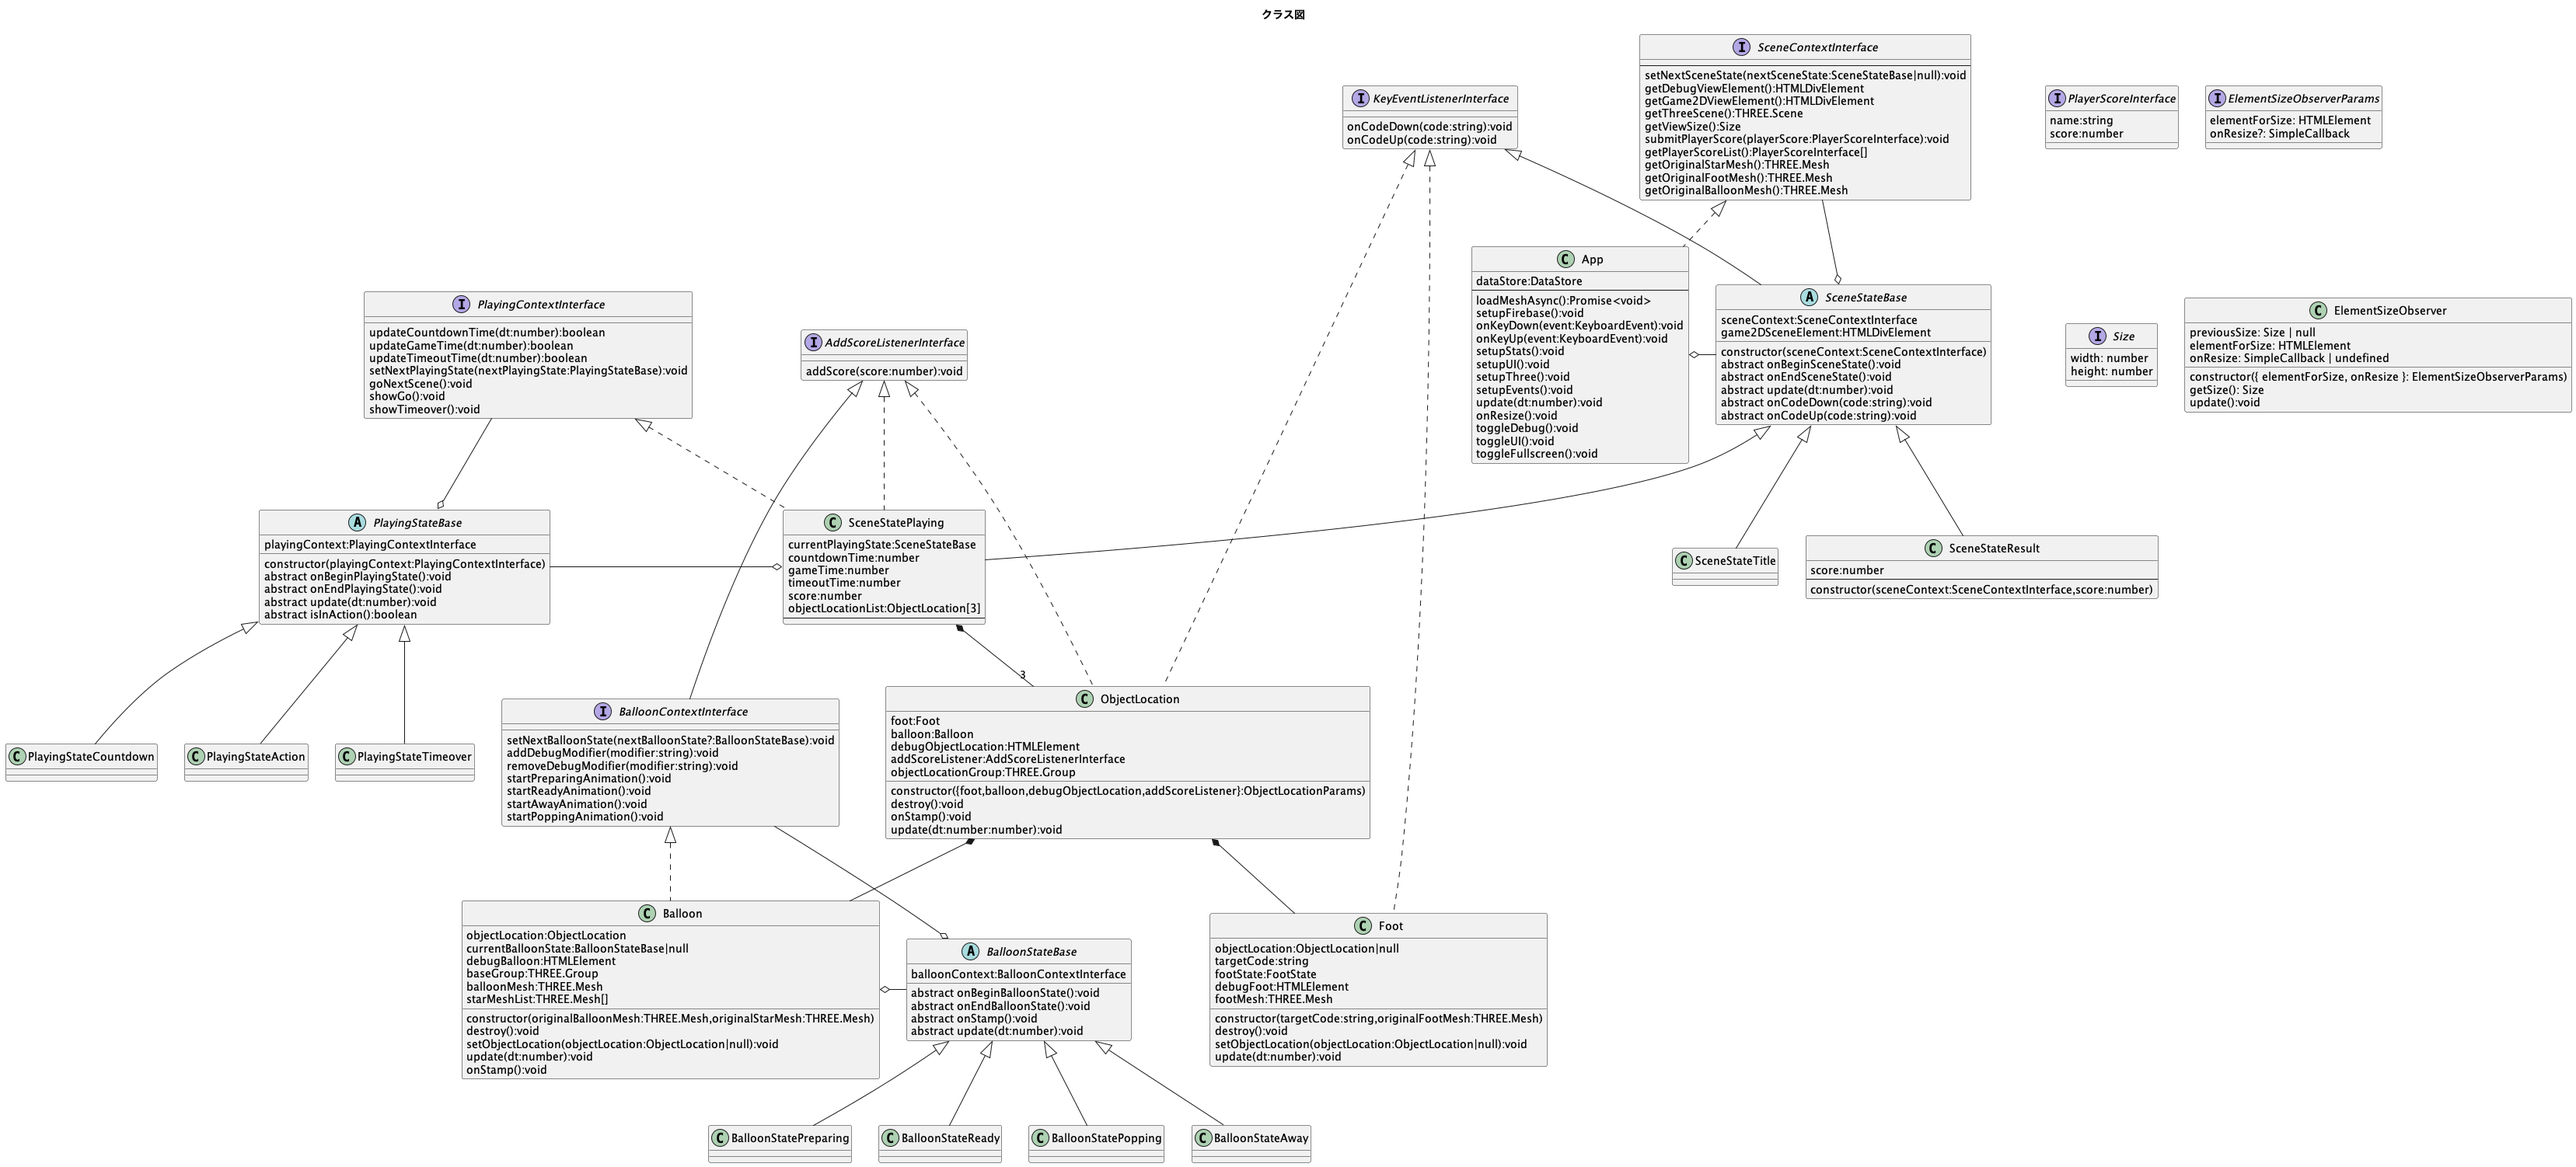
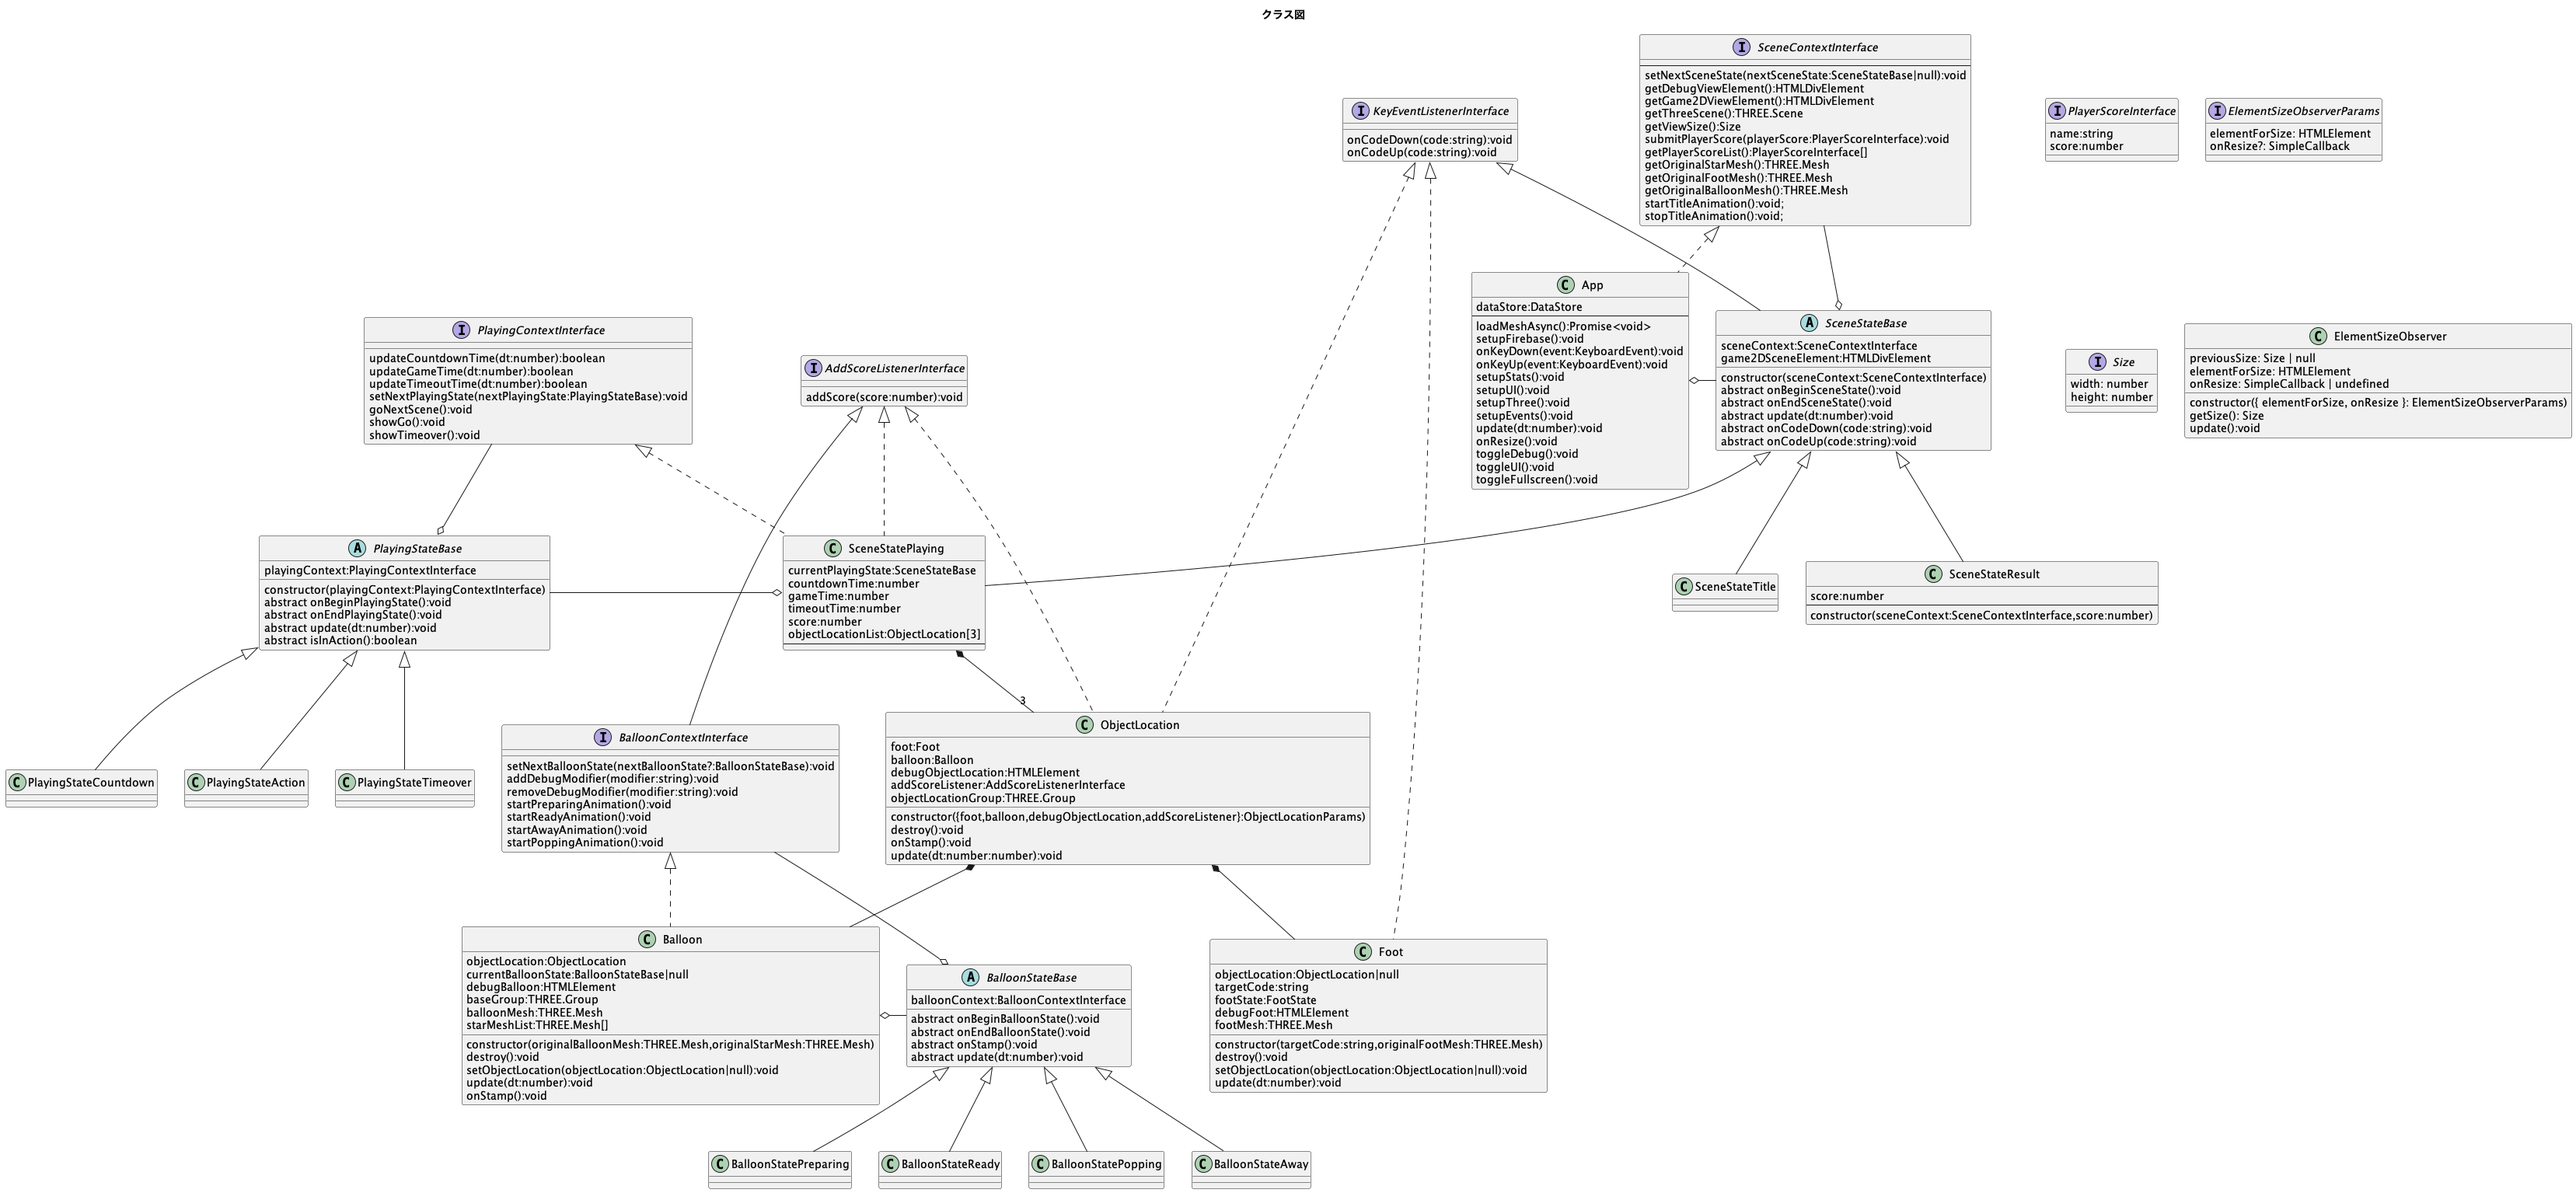
TitleAnimationを実装

diff --git a/src/App.ts b/src/App.ts
@@ -23,6 +23,7 @@ import ElementSizeObserver from "./ElementSizeObserver";
 // import FootMesh from "./FootMesh";
 import StarMesh from "./StarMesh";
 import FloorMesh from "./FloorMesh";
+import TitleAnimationGroup from "./TitleAnimationGroup";
 // import {ScrollTrigger} from "gsap/ScrollTrigger";
 // import {ScrollToPlugin} from "gsap/ScrollToPlugin";
 
@@ -49,6 +50,7 @@ interface ThreeObjects{
   renderer: THREE.WebGLRenderer;
   camera: THREE.PerspectiveCamera;
   scene: THREE.Scene;
+  titleAnimationGroup: TitleAnimationGroup;
 }
 
 interface OriginalMeshes{
@@ -306,6 +308,9 @@ export default class App implements SceneContextInterface{
     floorMesh.receiveShadow=true;
     scene.add(floorMesh);
 
+    const titleAnimationGroup=new TitleAnimationGroup(this.getOriginalBalloonMesh());
+    scene.add(titleAnimationGroup);
+
     // const balloonMesh=new BalloonMesh();
     // balloonMesh.castShadow=true;
     // balloonMesh.receiveShadow=true;
@@ -329,6 +334,7 @@ export default class App implements SceneContextInterface{
       renderer,
       camera,
       scene,
+      titleAnimationGroup,
     }
 
   }
@@ -413,7 +419,8 @@ export default class App implements SceneContextInterface{
     if (!this.threeObjects) {
       throw new Error("this.threeObjects is null");
     }
-    const {renderer,scene,camera}=this.threeObjects;
+    const {renderer,scene,camera,titleAnimationGroup}=this.threeObjects;
+    titleAnimationGroup.update(dt);
 
     renderer.render(scene, camera);
 
@@ -514,6 +521,22 @@ export default class App implements SceneContextInterface{
       throw new Error("this.originalMeshes is null");
     }
     return this.originalMeshes.balloonMesh;
+  }
+  startTitleAnimation():void{
+    if(!this.threeObjects){
+      throw new Error("this.threeObjects is null");
+    }
+    const {titleAnimationGroup}=this.threeObjects;
+    titleAnimationGroup.visible=true;
+    
+  }
+  stopTitleAnimation():void{
+    if(!this.threeObjects){
+      throw new Error("this.threeObjects is null");
+    }
+    const {titleAnimationGroup}=this.threeObjects;
+    titleAnimationGroup.visible=false;
+    
   }
   //#endregion
 

diff --git a/src/TitleAnimationGroup.ts b/src/TitleAnimationGroup.ts
@@ -1,0 +1,35 @@
+import * as THREE from "three";
+import { TITLE_ANIMATION_BALLOON_HEIGHT, TITLE_ANIMATION_BALLOON_QTY, TITLE_ANIMATION_BALLOON_RADIUS, TITLE_ANIMATION_DURATION } from "./constants";
+
+export default class TitleAnimationGroup extends THREE.Group{
+  titleAnimationTime:number;
+  constructor(originalBalloonMesh:THREE.Mesh){
+    super();
+    this.titleAnimationTime=0;
+    for(let i=0;i<TITLE_ANIMATION_BALLOON_QTY;i+=1){
+      const balloonMesh=originalBalloonMesh.clone();
+      const angle=i/TITLE_ANIMATION_BALLOON_QTY*360*THREE.MathUtils.DEG2RAD;
+      const x=Math.cos(angle)*TITLE_ANIMATION_BALLOON_RADIUS;
+      const z=Math.sin(angle)*TITLE_ANIMATION_BALLOON_RADIUS;
+      balloonMesh.position.set(x,0,z);
+
+
+      this.add(balloonMesh);
+    }
+  }
+  update(dt:number):void{
+
+    for(let i=0;i<TITLE_ANIMATION_BALLOON_QTY;i+=1){
+      const balloonMesh=this.children[i];
+      if(!balloonMesh){
+        throw new Error("balloonMesh is null");
+      }
+      const progressOffset=i/TITLE_ANIMATION_BALLOON_QTY*2;
+      const progressTime=this.titleAnimationTime/TITLE_ANIMATION_DURATION;
+      balloonMesh.position.y=(Math.sin((progressOffset+progressTime)*360*THREE.MathUtils.DEG2RAD)*0.5+0.5)*TITLE_ANIMATION_BALLOON_HEIGHT;
+    }
+    
+    this.titleAnimationTime=(this.titleAnimationTime+dt)%TITLE_ANIMATION_DURATION;
+  }
+
+}

diff --git a/src/SceneState/SceneStateTitle.ts b/src/SceneState/SceneStateTitle.ts
@@ -40,7 +40,7 @@ export default class SceneStateTitle extends SceneStateBase{
     debugViewElement.appendChild(this.debugTitle);
     const game2DViewElement=this.sceneContext.getGame2DViewElement();
     game2DViewElement.appendChild(this.game2DSceneElement);
-    
+    this.sceneContext.startTitleAnimation();
   }
   onEndSceneState(): void {
     if(IS_DEBUG){
@@ -50,6 +50,7 @@ export default class SceneStateTitle extends SceneStateBase{
     debugViewElement.removeChild(this.debugTitle);
     const game2DViewElement=this.sceneContext.getGame2DViewElement();
     game2DViewElement.removeChild(this.game2DSceneElement);
+    this.sceneContext.stopTitleAnimation();
     
   }
   update(_dt:number):void{

diff --git a/src/SceneState/SceneStateResult.ts b/src/SceneState/SceneStateResult.ts
@@ -107,6 +107,7 @@ export default class SceneStateResult extends SceneStateBase{
 
     const game2DViewElement=this.sceneContext.getGame2DViewElement();
     game2DViewElement.appendChild(this.game2DSceneElement);
+    this.sceneContext.startTitleAnimation();
     
   }
   onEndSceneState(): void {
@@ -121,6 +122,7 @@ export default class SceneStateResult extends SceneStateBase{
 
     const game2DViewElement=this.sceneContext.getGame2DViewElement();
     game2DViewElement.removeChild(this.game2DSceneElement);
+    this.sceneContext.stopTitleAnimation();
 
     this.sceneContext.submitPlayerScore({
       name:this.name,

diff --git a/src/constants.ts b/src/constants.ts
@@ -46,7 +46,10 @@ export const FOOT_MOVE_DOWN_DURATION=0.1;
 
 export const GAME_HEIGHT=7;
 
-export const STAR_EFFECT_QTY=10;
+export const STAR_EFFECT_QTY=12;
 export const STAR_EFFECT_MOVE_LENGTH=1;
 
-
+export const TITLE_ANIMATION_BALLOON_QTY=12;
+export const TITLE_ANIMATION_BALLOON_RADIUS=5;
+export const TITLE_ANIMATION_BALLOON_HEIGHT=5;
+export const TITLE_ANIMATION_DURATION=10;

diff --git a/src/SceneState/SceneContextInterface.ts b/src/SceneState/SceneContextInterface.ts
@@ -17,4 +17,6 @@ export default interface SceneContextInterface{
   getOriginalStarMesh():THREE.Mesh;
   getOriginalFootMesh():THREE.Mesh;
   getOriginalBalloonMesh():THREE.Mesh;
+  startTitleAnimation():void;
+  stopTitleAnimation():void;
 }
